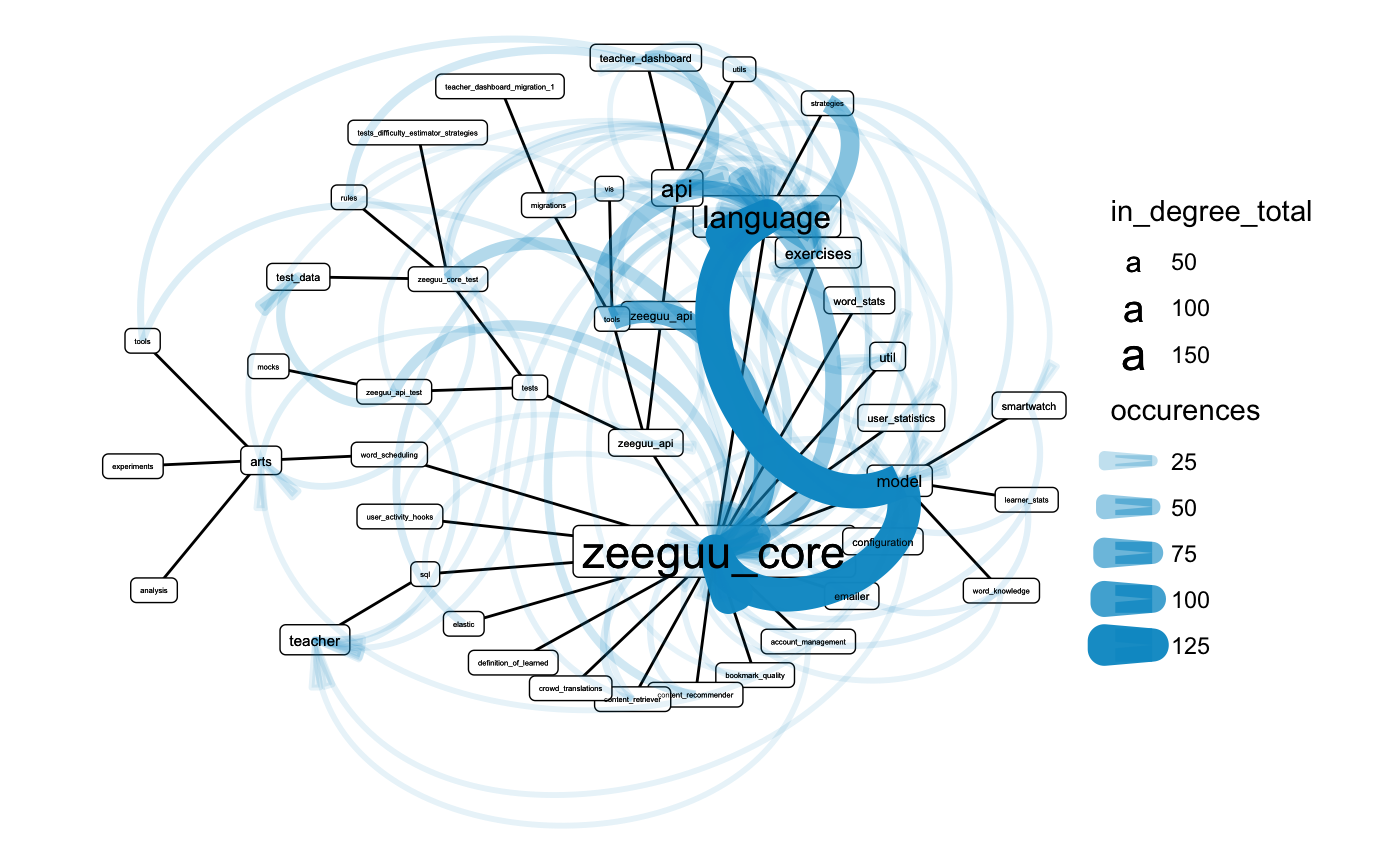
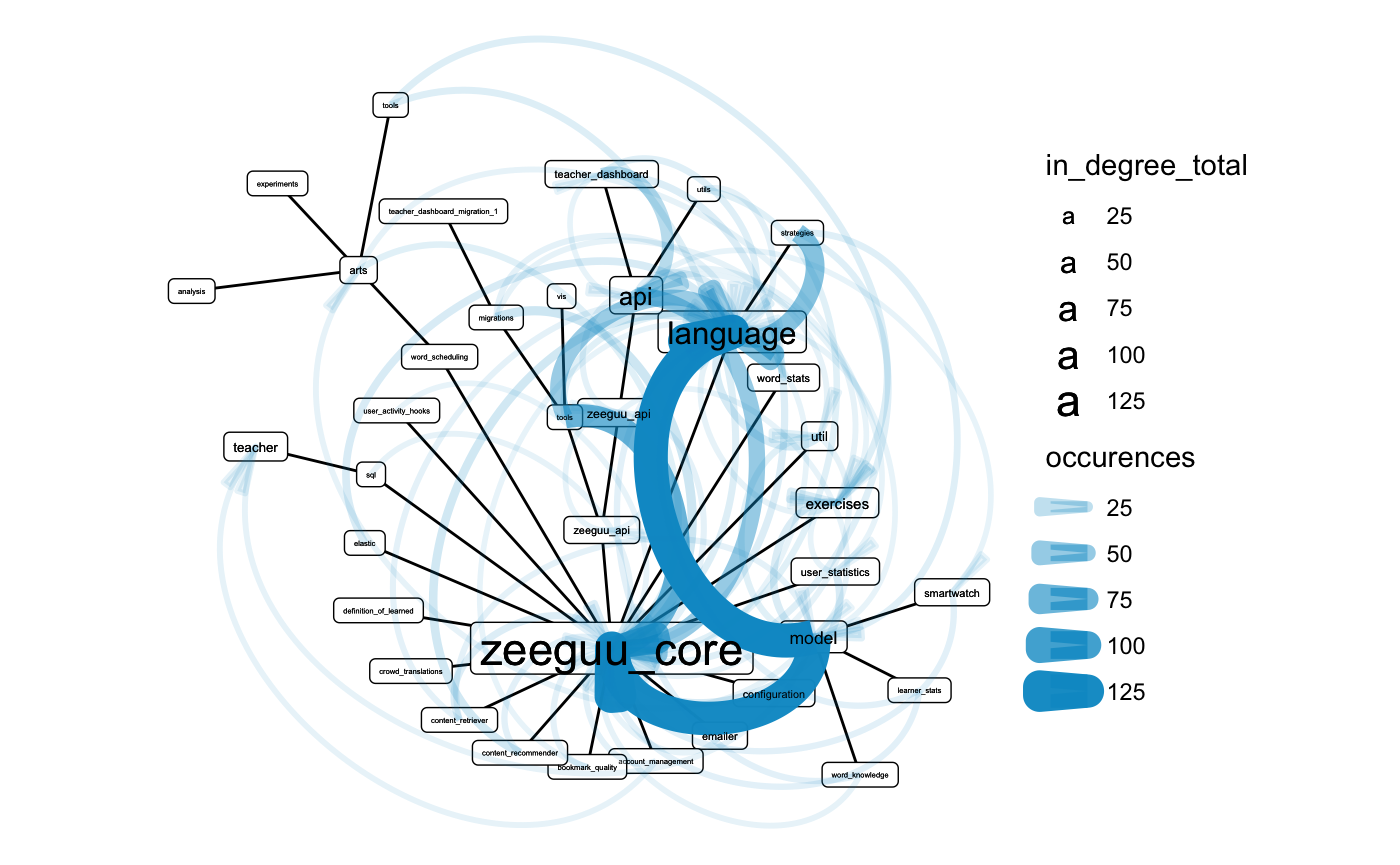
quick

diff --git a/docs/articles/zeeguu_api.html b/docs/articles/zeeguu_api.html
@@ -31,7 +31,7 @@
       </button>
       <span class="navbar-brand">
         <a class="navbar-link" href="../index.html">Rchitecture</a>
-        <span class="version label label-default" data-toggle="tooltip" data-placement="bottom" title="Released version">0.0.0.9000</span>
+        <span class="version label label-default" data-toggle="tooltip" data-placement="bottom" title="Released version">1.0.0</span>
       </span>
     </div>
 
@@ -98,10 +98,16 @@
 <div id="introduction" class="section level2">
 <h2 class="hasAnchor">
 <a href="#introduction" class="anchor"></a>Introduction</h2>
+<div id="what-is-in-this-hand-in" class="section level3">
+<h3 class="hasAnchor">
+<a href="#what-is-in-this-hand-in" class="anchor"></a>What is in this hand-in?</h3>
+<p>I chose to submit an automated tool to aid architectural recovery as a hand-in. The full source code and documentation are available on <a href="https://benjaminschwetz.github.io/Rchitecture/">github</a>. For an intro on how to use it, see the last section, <strong>Reproduction</strong>.</p>
+<p>If we look at a software repository as a data source, we have two obvious tree structures, the abstract syntax tree (AST) for script files, and the file hierarchy of the repository as a whole. With <code>data.tree</code> and <code>igraph</code>, R has two mature packages to handle tree and graph structures. Furthermore, <code>tidygraph</code> and <code>ggraph</code> are recent packages for graph manipulation and visualization that follow the <a href="https://cran.r-project.org/web/packages/tidyr/vignettes/tidy-data.html">tidy data principles</a> and <a href="https://www.tandfonline.com/doi/abs/10.1198/jcgs.2009.07098">layered grammar of graphic</a> for manipulation and visualization of graphs. Last but not least, <code>reticulate</code> offers an interface to call python code and convert python objects to R objects. My goal for this project was test whether these packages could be combined to automatically generate insightful architectural views from python repositories. For the visualizations in this report, the file hierarchy was used directly as a graph, while the AST was used only indirectly to construct a dependency graph.</p>
+</div>
 <div id="what-is-the-system" class="section level3">
 <h3 class="hasAnchor">
 <a href="#what-is-the-system" class="anchor"></a>What is the system?</h3>
-<p>From the project website:</p>
+<p>The Zeeguu-Api repository is used as an example here to demonstrate the tool. From the project website:</p>
 <blockquote>
 <p>Zeeguu-API is an open API that allows tracking and modeling the progress of a learner in a foreign language with the goal of recommending paths to accelerate vocabulary acquisition. The API is also currently deployed as the backend for the zeeguu.org website.</p>
 </blockquote>
@@ -117,11 +123,10 @@
 <a href="#methodology" class="anchor"></a>Methodology</h2>
 <div id="tool-support" class="section level3">
 <h3 class="hasAnchor">
-<a href="#tool-support" class="anchor"></a>tool support:</h3>
-<p>I wrote my own scripts, with the following direct dependencies:</p>
+<a href="#tool-support" class="anchor"></a>Tool support:</h3>
+<p>I wrote my own scripts and released them under MIT license on <a href="https://benjaminschwetz.github.io/Rchitecture/">github</a>. Beyond the R dependencies that are specified in the <code>DESCRIPTION</code> file, I used <a href="https://github.com/maligree/python-ast-explorer">maligree/python-ast-explorer</a> for parsing python AST into data structures.</p>
+<p>The R packages I rely most on, are:</p>
 <ul>
-<li>
-<a href="https://github.com/maligree/python-ast-explorer">maligree/python-ast-explorer</a> for parsing python AST into data structures.</li>
 <li>📦<code>reticulate</code> for calling those python scripts from R</li>
 <li>📦<code>data.tree</code> for parsing yaml (and directories) into data.tree objects that could then be converted into igraph objects</li>
 <li>📦<code>igraph</code> behind the scenes and for implementations of different graph algorithms</li>
@@ -129,6 +134,7 @@
 <li>📦<code>ggraph</code> for plotting graphs</li>
 <li>📦<code>dplyr</code> for data wrangling</li>
 </ul>
+<p>To run the code in this document, you need to load the following packages into your R session:</p>
 <div class="sourceCode" id="cb1"><pre class="downlit sourceCode r">
 <code class="sourceCode R"><span class="kw"><a href="https://rdrr.io/r/base/library.html">library</a></span><span class="op">(</span><span class="va"><a href="https://github.com/benjaminschwetz/Rchitecture">Rchitecture</a></span><span class="op">)</span>
 <span class="kw"><a href="https://rdrr.io/r/base/library.html">library</a></span><span class="op">(</span><span class="va"><a href="https://dplyr.tidyverse.org">dplyr</a></span><span class="op">)</span>
@@ -140,37 +146,37 @@
 <span class="co">#&gt; The following objects are masked from 'package:base':</span>
 <span class="co">#&gt; </span>
 <span class="co">#&gt;     intersect, setdiff, setequal, union</span></code></pre></div>
-<p>The code can be found on github: <a href="https://github.com/benjaminschwetz/Rchitecture">benjaminschwetz/Rchitecture</a> ### data gathering: what sources of data did you use? Source viewpoints?</p>
 </div>
 <div id="gathering-data" class="section level3">
 <h3 class="hasAnchor">
 <a href="#gathering-data" class="anchor"></a>Gathering data</h3>
-<p>I did a static analysis on the source code from the git repository:</p>
+<p>I did a static analysis on the source code from the git repository. The first step was to download the data into a temporary directory:</p>
 <div class="sourceCode" id="cb2"><pre class="downlit sourceCode r">
 <code class="sourceCode R"><span class="va">temp_folder</span> <span class="op">&lt;-</span> <span class="fu"><a href="https://rdrr.io/r/base/tempfile.html">tempdir</a></span><span class="op">(</span><span class="op">)</span>
 <span class="va">zeeguu_path</span> <span class="op">&lt;-</span> <span class="fu"><a href="https://rdrr.io/r/base/paste.html">paste0</a></span><span class="op">(</span><span class="va">temp_folder</span>, <span class="st">"/zeeguu_api"</span><span class="op">)</span>
 <span class="fu">git2r</span><span class="fu">::</span><span class="fu"><a href="https://docs.ropensci.org/git2r/reference/clone.html">clone</a></span><span class="op">(</span>url <span class="op">=</span> <span class="st">"https://github.com/zeeguu-ecosystem/Zeeguu-API.git"</span>,
              local_path  <span class="op">=</span> <span class="va">zeeguu_path</span><span class="op">)</span>
-<span class="co">#&gt; cloning into '/var/folders/t6/r8f4swn91n1cl2qw4dg80q4m0000gp/T//RtmpKDdaLl/zeeguu_api'...</span>
-<span class="co">#&gt; Receiving objects:   1% (49/4886),   24 kb</span>
-<span class="co">#&gt; Receiving objects:  11% (538/4886),  128 kb</span>
-<span class="co">#&gt; Receiving objects:  21% (1027/4886),  240 kb</span>
-<span class="co">#&gt; Receiving objects:  31% (1515/4886),  296 kb</span>
-<span class="co">#&gt; Receiving objects:  41% (2004/4886), 1481 kb</span>
-<span class="co">#&gt; Receiving objects:  51% (2492/4886), 1522 kb</span>
-<span class="co">#&gt; Receiving objects:  61% (2981/4886), 1586 kb</span>
-<span class="co">#&gt; Receiving objects:  71% (3470/4886), 1641 kb</span>
-<span class="co">#&gt; Receiving objects:  81% (3958/4886), 1697 kb</span>
-<span class="co">#&gt; Receiving objects:  91% (4447/4886), 2450 kb</span>
-<span class="co">#&gt; Receiving objects: 100% (4886/4886), 2535 kb, done.</span>
-<span class="co">#&gt; Local:    master /private/var/folders/t6/r8f4swn91n1cl2qw4dg80q4m0000gp/T/RtmpKDdaLl/zeeguu_api</span>
+<span class="co">#&gt; cloning into '/var/folders/t6/r8f4swn91n1cl2qw4dg80q4m0000gp/T//RtmpUYumvS/zeeguu_api'...</span>
+<span class="co">#&gt; Receiving objects:   1% (50/4938),   24 kb</span>
+<span class="co">#&gt; Receiving objects:  11% (544/4938),  128 kb</span>
+<span class="co">#&gt; Receiving objects:  21% (1037/4938),  248 kb</span>
+<span class="co">#&gt; Receiving objects:  31% (1531/4938),  296 kb</span>
+<span class="co">#&gt; Receiving objects:  41% (2025/4938), 1488 kb</span>
+<span class="co">#&gt; Receiving objects:  51% (2519/4938), 1536 kb</span>
+<span class="co">#&gt; Receiving objects:  61% (3013/4938), 1600 kb</span>
+<span class="co">#&gt; Receiving objects:  71% (3506/4938), 1648 kb</span>
+<span class="co">#&gt; Receiving objects:  81% (4000/4938), 1712 kb</span>
+<span class="co">#&gt; Receiving objects:  91% (4494/4938), 2479 kb</span>
+<span class="co">#&gt; Receiving objects: 100% (4938/4938), 2541 kb, done.</span>
+<span class="co">#&gt; Local:    master /private/var/folders/t6/r8f4swn91n1cl2qw4dg80q4m0000gp/T/RtmpUYumvS/zeeguu_api</span>
 <span class="co">#&gt; Remote:   master @ origin (https://github.com/zeeguu-ecosystem/Zeeguu-API.git)</span>
-<span class="co">#&gt; Head:     [305435e] 2021-05-14: Update feature_toggles.py</span></code></pre></div>
+<span class="co">#&gt; Head:     [70ae25e] 2021-05-25: Update student.py</span></code></pre></div>
 </div>
 <div id="knowlegde-inference" class="section level3">
 <h3 class="hasAnchor">
 <a href="#knowlegde-inference" class="anchor"></a>Knowlegde Inference</h3>
-<p>I aimed to make this as automatic/tool driven as possible. The only knowledge inference I used was that I knew from lectures that it is a python project.</p>
+<p>As stated previously, my aim was to develop an automatic tool. Thus, the only knowledge inference I used was that I knew from lectures that it is a python project. As can be seen from the code below, the tool can be used iteratively to fine tuning visualizations based on learnings.</p>
+<p>In my case, I realized that html files and the <code>tests</code> directory are not architecturally relevant after an initial exploration.</p>
 </div>
 </div>
 <div id="results" class="section level2">
@@ -179,12 +185,13 @@
 <div id="content-table" class="section level3">
 <h3 class="hasAnchor">
 <a href="#content-table" class="anchor"></a>Content table</h3>
-<p>This first table is more of a sanity check for the repository:</p>
+<p>The <code>content_table</code> function generates a table of content from the repository:</p>
 <blockquote>
 <p>Which file types occur most often and which files take most of the space?</p>
 </blockquote>
 <div class="sourceCode" id="cb3"><pre class="downlit sourceCode r">
 <code class="sourceCode R"><span class="va">folder_contents</span> <span class="op">&lt;-</span> <span class="fu"><a href="../reference/content_table.html">content_table</a></span><span class="op">(</span><span class="va">zeeguu_path</span>, include_folders <span class="op">=</span> <span class="cn">FALSE</span>, <span class="va">temp_folder</span><span class="op">)</span></code></pre></div>
+<p><code>dplyr</code> verbs can then be used to summarize that table:</p>
 <div class="sourceCode" id="cb4"><pre class="downlit sourceCode r">
 <code class="sourceCode R"><span class="va">folder_contents</span> <span class="op">%&gt;%</span> 
   <span class="fu"><a href="https://dplyr.tidyverse.org/reference/mutate.html">mutate</a></span><span class="op">(</span>
@@ -209,7 +216,7 @@
 <tr class="odd">
 <td align="left">py</td>
 <td align="right">240</td>
-<td align="right">678611</td>
+<td align="right">678953</td>
 <td align="right">1390</td>
 </tr>
 <tr class="even">
@@ -286,7 +293,15 @@
 </tr>
 </tbody>
 </table>
-<p>From this table we can see that: - it is likely a python project, because of the high number of python files - using a sql database for storage, beause of the sql scripts - It is a web applications, since it has a lot of html data. - The project has a license - It is using one docker image for the entire repo - some shell scripts</p>
+<p>From this table we can see that:</p>
+<ul>
+<li>it is likely a python project, because of the high number of python files</li>
+<li>using a sql database for storage, beause of the sql scripts</li>
+<li>It is a web applications, since it has a lot of html data.</li>
+<li>The project has a license</li>
+<li>It is using one docker image for the entire repo</li>
+<li>some shell scripts</li>
+</ul>
 </div>
 <div id="repository-structure-view" class="section level3">
 <h3 class="hasAnchor">
@@ -296,19 +311,37 @@
 <code class="sourceCode R"><span class="fu"><a href="../reference/visualize_folder_type_and_size.html">visualize_folder_type_and_size</a></span><span class="op">(</span><span class="va">zeeguu_path</span>, path_prefix <span class="op">=</span> <span class="va">temp_folder</span><span class="op">)</span>
 <span class="co">#&gt; Non-leaf weights ignored</span>
 <span class="co">#&gt; Warning: Ignoring unknown parameters: check_overlap</span></code></pre></div>
-<p><img src="zeeguu_api_files/figure-html/unnamed-chunk-5-1.png" width="700"></p>
+<p><img src="zeeguu_api_files/figure-html/unnamed-chunk-5-1.png" width="672"></p>
 <p>This view shows that <code>Zeeguu_core</code> and <code>Zeeguu_api</code> are the two only pure python folders. <code>tools</code> contains the aformentioned sql scripts and most of the html is located in actually just located in the tests.</p>
+<p>To improve the visualizations, we zoom in on the architecturally relevant content, by excluding the tests folder.</p>
+<div class="sourceCode" id="cb6"><pre class="downlit sourceCode r">
+<code class="sourceCode R"><span class="fu"><a href="../reference/visualize_folder_type_and_size.html">visualize_folder_type_and_size</a></span><span class="op">(</span><span class="va">zeeguu_path</span>, path_prefix <span class="op">=</span> <span class="va">temp_folder</span>,
+                               .ignore_regex <span class="op">=</span> <span class="st">"^zeeguu_api/tests"</span><span class="op">)</span>
+<span class="co">#&gt; Non-leaf weights ignored</span>
+<span class="co">#&gt; Warning: Ignoring unknown parameters: check_overlap</span></code></pre></div>
+<p><img src="zeeguu_api_files/figure-html/unnamed-chunk-6-1.png" width="672"></p>
+<p>This view shows that most of the python code is organized in the zeeguu_core and zeeguu_api folders and that those are <em>pure</em> python folders with a nesting of up to two more levels of sub-folders.</p>
 </div>
 <div id="package-dependency-view" class="section level3">
 <h3 class="hasAnchor">
 <a href="#package-dependency-view" class="anchor"></a>Package dependency view</h3>
+<div id="approach" class="section level4">
+<h4 class="hasAnchor">
+<a href="#approach" class="anchor"></a>Approach</h4>
 <p>I made a crude tokenizer from the <code>ast</code> module and used it to parse all <code>.py</code> files in the repository. Then I matched those tokens against the list of folder names in the repository to get a list of tokens that are (likely) dependencies. I then generated a graph, treating these mentions as edges. As it had too many nodes for a meaningful plot, I simplified the graph by aggregating the edges on a folder level. To preserve the weight information, I simply summed up the number of occurrences. I then arranged the nodes using a circular tree layout, based on the path hierarchy and encoded <code>occurences</code> in edge width and alpha. To make the plot more readable, I also scaled the nodes proportional to their centrality degree, counting incoming edges.</p>
-<div class="sourceCode" id="cb6"><pre class="downlit sourceCode r">
-<code class="sourceCode R"><span class="fu"><a href="../reference/internal_dependency_graph.html">internal_dependency_graph</a></span><span class="op">(</span><span class="va">zeeguu_path</span>, <span class="va">temp_folder</span><span class="op">)</span></code></pre></div>
+</div>
+<div id="outcome" class="section level4">
+<h4 class="hasAnchor">
+<a href="#outcome" class="anchor"></a>Outcome</h4>
+<p>The visualization of the dependencies in the package can be seen below:</p>
+<div class="sourceCode" id="cb7"><pre class="downlit sourceCode r">
+<code class="sourceCode R"><span class="fu"><a href="../reference/internal_dependency_graph.html">internal_dependency_graph</a></span><span class="op">(</span><span class="va">zeeguu_path</span>, <span class="va">temp_folder</span>, .ignore_regex <span class="op">=</span> <span class="st">"^zeeguu_api/tests"</span><span class="op">)</span></code></pre></div>
 <div class="figure">
 <img src="view_img.png" style="width:100.0%" alt=""><p class="caption">View</p>
 </div>
 <p>The view cleary shows that <code>zeeguu_core</code> and more specifically <code>model</code> and <code>language</code> are heavily dependet on. One could argue that they were named properly. There is some overplotting occurring but it is still possible to look read dependencies for some of the nodes, i.e. <code>account_management</code> depends on the <code>teacher</code> module.</p>
+<p>It is interesting that the <code>tools</code> module also has some dependencies. Unfortunately, these are not readable due to overplotting.</p>
+</div>
 </div>
 </div>
 <div id="discussion" class="section level2">
@@ -318,6 +351,7 @@
 <h3 class="hasAnchor">
 <a href="#limitations" class="anchor"></a>Limitations</h3>
 <p>The tokenizer is <em>very</em> crude, I am using the ast tree as is. Unfortunately, from what I understand about python AST, this means relative paths and pythonian dot annotation (“class.method()”) are not resolved as separate tokens. Furthermore, I create an edge if the token is equal to a folder name. This results in false positives if identical names occur several times in the folder hierarchy or some folders names happen to be identical to a string in the python script that is not an import. This limits the information content of the visualizations. Future work should thus focus on improving the tokenizer.</p>
+<p>Additionally, some more options to filter the visualizations would be useful enable more iterative use of the package, e.g. allow for the ability to only plot outgoing edges from scripts in the tools directory would enable us to understand how this component relates to the rest of the repository.</p>
 </div>
 </div>
 <div id="conclusion" class="section level2">
@@ -329,6 +363,14 @@
 <li>How are they distributed across subfolders (packages)?</li>
 <li>What are the main dependencies within the project?</li>
 </ul>
+</div>
+<div id="reproduction" class="section level2">
+<h2 class="hasAnchor">
+<a href="#reproduction" class="anchor"></a>Reproduction</h2>
+<p>The full source code and documentation are available on <a href="https://benjaminschwetz.github.io/Rchitecture/">github</a>. To use it, you need to have R and python installed on your system, <a href="https://rstudio.github.io/reticulate/"><code>reticulate</code> configured</a>, and <a href="https://cran.r-project.org/web/packages/remotes/remotes.pdf">remotes</a> installed. To use the package run the following command in an R session:</p>
+<div class="sourceCode" id="cb8"><pre class="downlit sourceCode r">
+<code class="sourceCode R"><span class="fu">remotes</span><span class="fu">::</span><span class="fu"><a href="https://remotes.r-lib.org/reference/install_github.html">install_github</a></span><span class="op">(</span><span class="st">"benjaminschwetz/Rchitecture"</span><span class="op">)</span></code></pre></div>
+<p>I haven’t had the possibility to test it on a Windows machine yet. I suspect that there might be some issues compared to macOS/Linux since this software is relying heavily on parsing absolute file paths as strings</p>
 </div>
   </div>
 

diff --git a/docs/reference/content_table.html b/docs/reference/content_table.html
@@ -72,7 +72,7 @@
       </button>
       <span class="navbar-brand">
         <a class="navbar-link" href="../index.html">Rchitecture</a>
-        <span class="version label label-default" data-toggle="tooltip" data-placement="bottom" title="Released version">0.0.0.9000</span>
+        <span class="version label label-default" data-toggle="tooltip" data-placement="bottom" title="Released version">1.0.0</span>
       </span>
     </div>
 
@@ -135,14 +135,26 @@
     <p>Title</p>
     </div>
 
-    <pre class="usage"><span class='fu'>content_table</span><span class='op'>(</span><span class='va'>project_path</span>, <span class='va'>include_folders</span>, <span class='va'>path_prefix</span><span class='op'>)</span></pre>
+    <pre class="usage"><span class='fu'>content_table</span><span class='op'>(</span><span class='va'>project_path</span>, <span class='va'>include_folders</span>, <span class='va'>path_prefix</span>, .ignore_regex <span class='op'>=</span> <span class='cn'>NULL</span><span class='op'>)</span></pre>
 
     <h2 class="hasAnchor" id="arguments"><a class="anchor" href="#arguments"></a>Arguments</h2>
     <table class="ref-arguments">
     <colgroup><col class="name" /><col class="desc" /></colgroup>
     <tr>
       <th>project_path</th>
-      <td></td>
+      <td><p>absolute path pointing to the files</p></td>
+    </tr>
+    <tr>
+      <th>include_folders</th>
+      <td><p>should folders be included?</p></td>
+    </tr>
+    <tr>
+      <th>path_prefix</th>
+      <td><p>leading part of the absolute file paths that is not meaningful for the analysis</p></td>
+    </tr>
+    <tr>
+      <th>.ignore_regex</th>
+      <td><p>regex pattern for paths to exclude</p></td>
     </tr>
     </table>
 

diff --git a/docs/reference/internal_dependency_graph.html b/docs/reference/internal_dependency_graph.html
@@ -72,7 +72,7 @@
       </button>
       <span class="navbar-brand">
         <a class="navbar-link" href="../index.html">Rchitecture</a>
-        <span class="version label label-default" data-toggle="tooltip" data-placement="bottom" title="Released version">0.0.0.9000</span>
+        <span class="version label label-default" data-toggle="tooltip" data-placement="bottom" title="Released version">1.0.0</span>
       </span>
     </div>
 
@@ -135,7 +135,7 @@
     <p>Visualize internal dependencies</p>
     </div>
 
-    <pre class="usage"><span class='fu'>internal_dependency_graph</span><span class='op'>(</span><span class='va'>project_path</span>, <span class='va'>path_prefix</span><span class='op'>)</span></pre>
+    <pre class="usage"><span class='fu'>internal_dependency_graph</span><span class='op'>(</span><span class='va'>project_path</span>, <span class='va'>path_prefix</span>, .ignore_regex <span class='op'>=</span> <span class='cn'>NULL</span><span class='op'>)</span></pre>
 
     <h2 class="hasAnchor" id="arguments"><a class="anchor" href="#arguments"></a>Arguments</h2>
     <table class="ref-arguments">
@@ -147,6 +147,10 @@
     <tr>
       <th>path_prefix</th>
       <td><p>leading folders from absolute path to omit from visualization.</p></td>
+    </tr>
+    <tr>
+      <th>.ignore_regex</th>
+      <td><p>regex pattern for paths to exclude</p></td>
     </tr>
     </table>
 

diff --git a/docs/reference/visualize_folder_type_and_size.html b/docs/reference/visualize_folder_type_and_size.html
@@ -72,7 +72,7 @@
       </button>
       <span class="navbar-brand">
         <a class="navbar-link" href="../index.html">Rchitecture</a>
-        <span class="version label label-default" data-toggle="tooltip" data-placement="bottom" title="Released version">0.0.0.9000</span>
+        <span class="version label label-default" data-toggle="tooltip" data-placement="bottom" title="Released version">1.0.0</span>
       </span>
     </div>
 
@@ -135,7 +135,7 @@
     <p>Visualize folder type and size</p>
     </div>
 
-    <pre class="usage"><span class='fu'>visualize_folder_type_and_size</span><span class='op'>(</span><span class='va'>folder_path</span>, <span class='va'>path_prefix</span><span class='op'>)</span></pre>
+    <pre class="usage"><span class='fu'>visualize_folder_type_and_size</span><span class='op'>(</span><span class='va'>folder_path</span>, <span class='va'>path_prefix</span>, .ignore_regex <span class='op'>=</span> <span class='cn'>NULL</span><span class='op'>)</span></pre>
 
     <h2 class="hasAnchor" id="arguments"><a class="anchor" href="#arguments"></a>Arguments</h2>
     <table class="ref-arguments">

diff --git a/docs/articles/index.html b/docs/articles/index.html
@@ -71,7 +71,7 @@
       </button>
       <span class="navbar-brand">
         <a class="navbar-link" href="../index.html">Rchitecture</a>
-        <span class="version label label-default" data-toggle="tooltip" data-placement="bottom" title="Released version">0.0.0.9000</span>
+        <span class="version label label-default" data-toggle="tooltip" data-placement="bottom" title="Released version">1.0.0</span>
       </span>
     </div>
 

diff --git a/docs/articles/internal_dependencies.html b/docs/articles/internal_dependencies.html
@@ -31,7 +31,7 @@
       </button>
       <span class="navbar-brand">
         <a class="navbar-link" href="../index.html">Rchitecture</a>
-        <span class="version label label-default" data-toggle="tooltip" data-placement="bottom" title="Released version">0.0.0.9000</span>
+        <span class="version label label-default" data-toggle="tooltip" data-placement="bottom" title="Released version">1.0.0</span>
       </span>
     </div>
 

diff --git a/docs/articles/text_mining_ast.html b/docs/articles/text_mining_ast.html
@@ -31,7 +31,7 @@
       </button>
       <span class="navbar-brand">
         <a class="navbar-link" href="../index.html">Rchitecture</a>
-        <span class="version label label-default" data-toggle="tooltip" data-placement="bottom" title="Released version">0.0.0.9000</span>
+        <span class="version label label-default" data-toggle="tooltip" data-placement="bottom" title="Released version">1.0.0</span>
       </span>
     </div>
 

diff --git a/docs/reference/edge_bundling_failed.html b/docs/reference/edge_bundling_failed.html
@@ -72,7 +72,7 @@
       </button>
       <span class="navbar-brand">
         <a class="navbar-link" href="../index.html">Rchitecture</a>
-        <span class="version label label-default" data-toggle="tooltip" data-placement="bottom" title="Released version">0.0.0.9000</span>
+        <span class="version label label-default" data-toggle="tooltip" data-placement="bottom" title="Released version">1.0.0</span>
       </span>
     </div>
 

diff --git a/docs/reference/generate_dependency_graph.html b/docs/reference/generate_dependency_graph.html
@@ -72,7 +72,7 @@
       </button>
       <span class="navbar-brand">
         <a class="navbar-link" href="../index.html">Rchitecture</a>
-        <span class="version label label-default" data-toggle="tooltip" data-placement="bottom" title="Released version">0.0.0.9000</span>
+        <span class="version label label-default" data-toggle="tooltip" data-placement="bottom" title="Released version">1.0.0</span>
       </span>
     </div>
 

diff --git a/docs/reference/index.html b/docs/reference/index.html
@@ -71,7 +71,7 @@
       </button>
       <span class="navbar-brand">
         <a class="navbar-link" href="../index.html">Rchitecture</a>
-        <span class="version label label-default" data-toggle="tooltip" data-placement="bottom" title="Released version">0.0.0.9000</span>
+        <span class="version label label-default" data-toggle="tooltip" data-placement="bottom" title="Released version">1.0.0</span>
       </span>
     </div>
 

diff --git a/docs/reference/pipe.html b/docs/reference/pipe.html
@@ -72,7 +72,7 @@
       </button>
       <span class="navbar-brand">
         <a class="navbar-link" href="../index.html">Rchitecture</a>
-        <span class="version label label-default" data-toggle="tooltip" data-placement="bottom" title="Released version">0.0.0.9000</span>
+        <span class="version label label-default" data-toggle="tooltip" data-placement="bottom" title="Released version">1.0.0</span>
       </span>
     </div>
 

diff --git a/docs/reference/tokenize_ast.html b/docs/reference/tokenize_ast.html
@@ -72,7 +72,7 @@
       </button>
       <span class="navbar-brand">
         <a class="navbar-link" href="../index.html">Rchitecture</a>
-        <span class="version label label-default" data-toggle="tooltip" data-placement="bottom" title="Released version">0.0.0.9000</span>
+        <span class="version label label-default" data-toggle="tooltip" data-placement="bottom" title="Released version">1.0.0</span>
       </span>
     </div>
 
